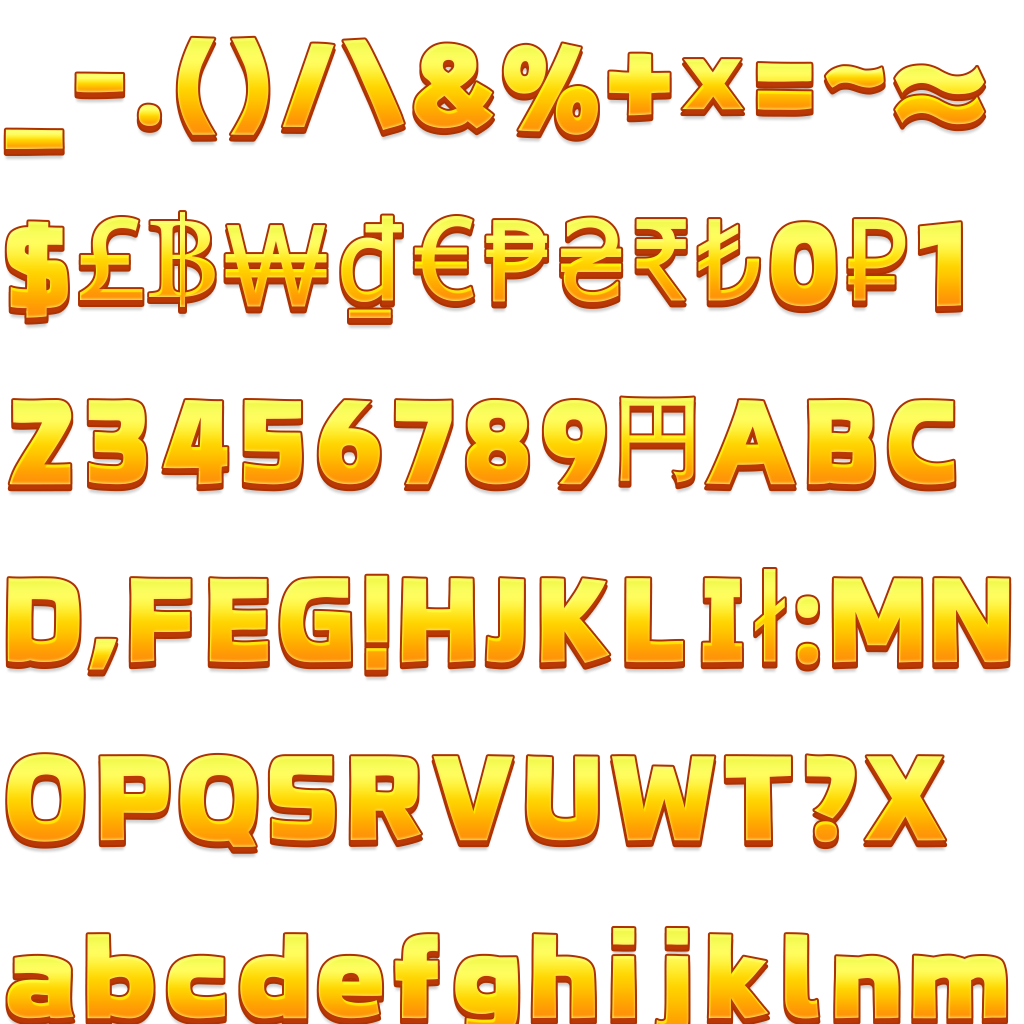
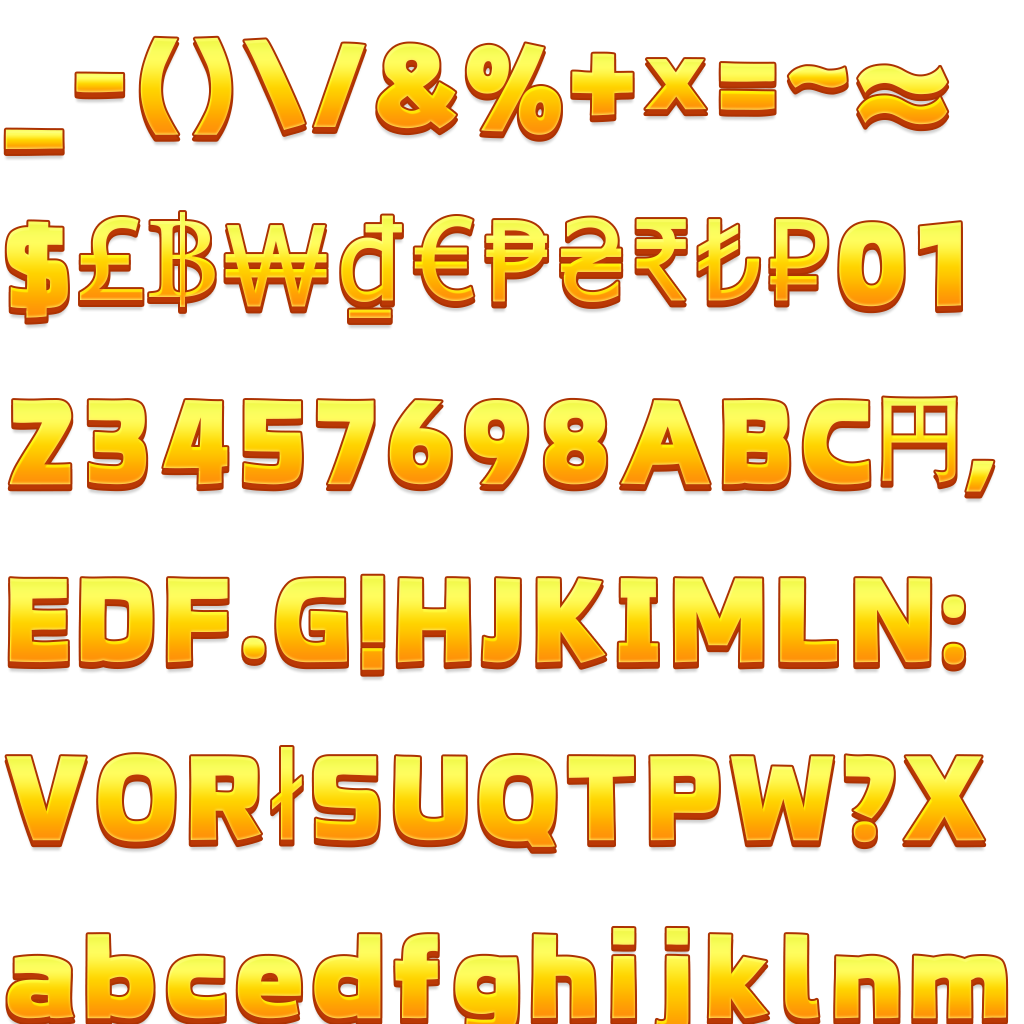
获取数据调整

diff --git a/assets/WordFrame/Scripts/RDM_Level.ts b/assets/WordFrame/Scripts/RDM_Level.ts
@@ -95,6 +95,7 @@ export default class RDM_Level extends cc.Component {
         this.coin = FrameSDK.convertCoinToStr(FrameData.credit, true);
         this.lbl_gCoin.string = this.coin;
         const rate = FrameData.FRAME_CONF.RedeemRateConfig[0];
+        console.log("rate。。。。。。。。..........", rate);
         this.rtx_tips.string = `<outline color=#914129 width=2><b>skey_094</b></outline>??&value1==<img src="dollar4" offset=-3/> <color= #86FF04><outline color=#427F04 width=2>${FrameSDK.convertCoinToStr(rate)}</outline></c>&value2==<color= #86FF04><outline color=#427F04 width=2>${FrameSDK.convertCoinToStr(rate, true)}</outline></c>`;
         FrameData.FRAME_CONF.CoinConf.forEach((value, i) => {
             let itme = this.scrollview.content.children[i] || cc.instantiate(this.scrollview.content.children[0]);

diff --git a/assets/WordFrame/Scripts/FrameSDK.ts b/assets/WordFrame/Scripts/FrameSDK.ts
@@ -125,6 +125,7 @@ export class FrameSDK {
 
     static initSettings(data) {
         FrameData.configs = data;
+        console.log("data。。。。。。。。...........", data);
         let confName = !FrameSDK.frameData.gameData.noProfitAd ? "basicConfig" : "shadow"
         let LINK_CONF = data?.[confName] || {};
 

diff --git a/assets/Scripts/GameMain.ts b/assets/Scripts/GameMain.ts
@@ -575,7 +575,8 @@ export default class GameMain extends cc.Component {
 
   rewaedAbMergeThreshold = 8;
   getFrameConf() {
-    return A.l3?.FRAME_CONF || A.l4?.FRAME_CONF || {};
+    let pdata = NativeUtils.isFlag ? A.l4 : A.l3;
+    return pdata;
   }
   
   // getRewardAbPopLevel() {

diff --git a/assets/Scripts/wordframe/LoadWord.ts b/assets/Scripts/wordframe/LoadWord.ts
@@ -277,7 +277,7 @@ export default class LoadWord {
       gameNodeObj: {}
     };
 
-    let pdata = A.l3 || A.l4 || {};
+    let pdata = NativeUtils.isFlag ? A.l4 : A.l3;
     let pm = null;  
     if(pdata) {
       pm = {
